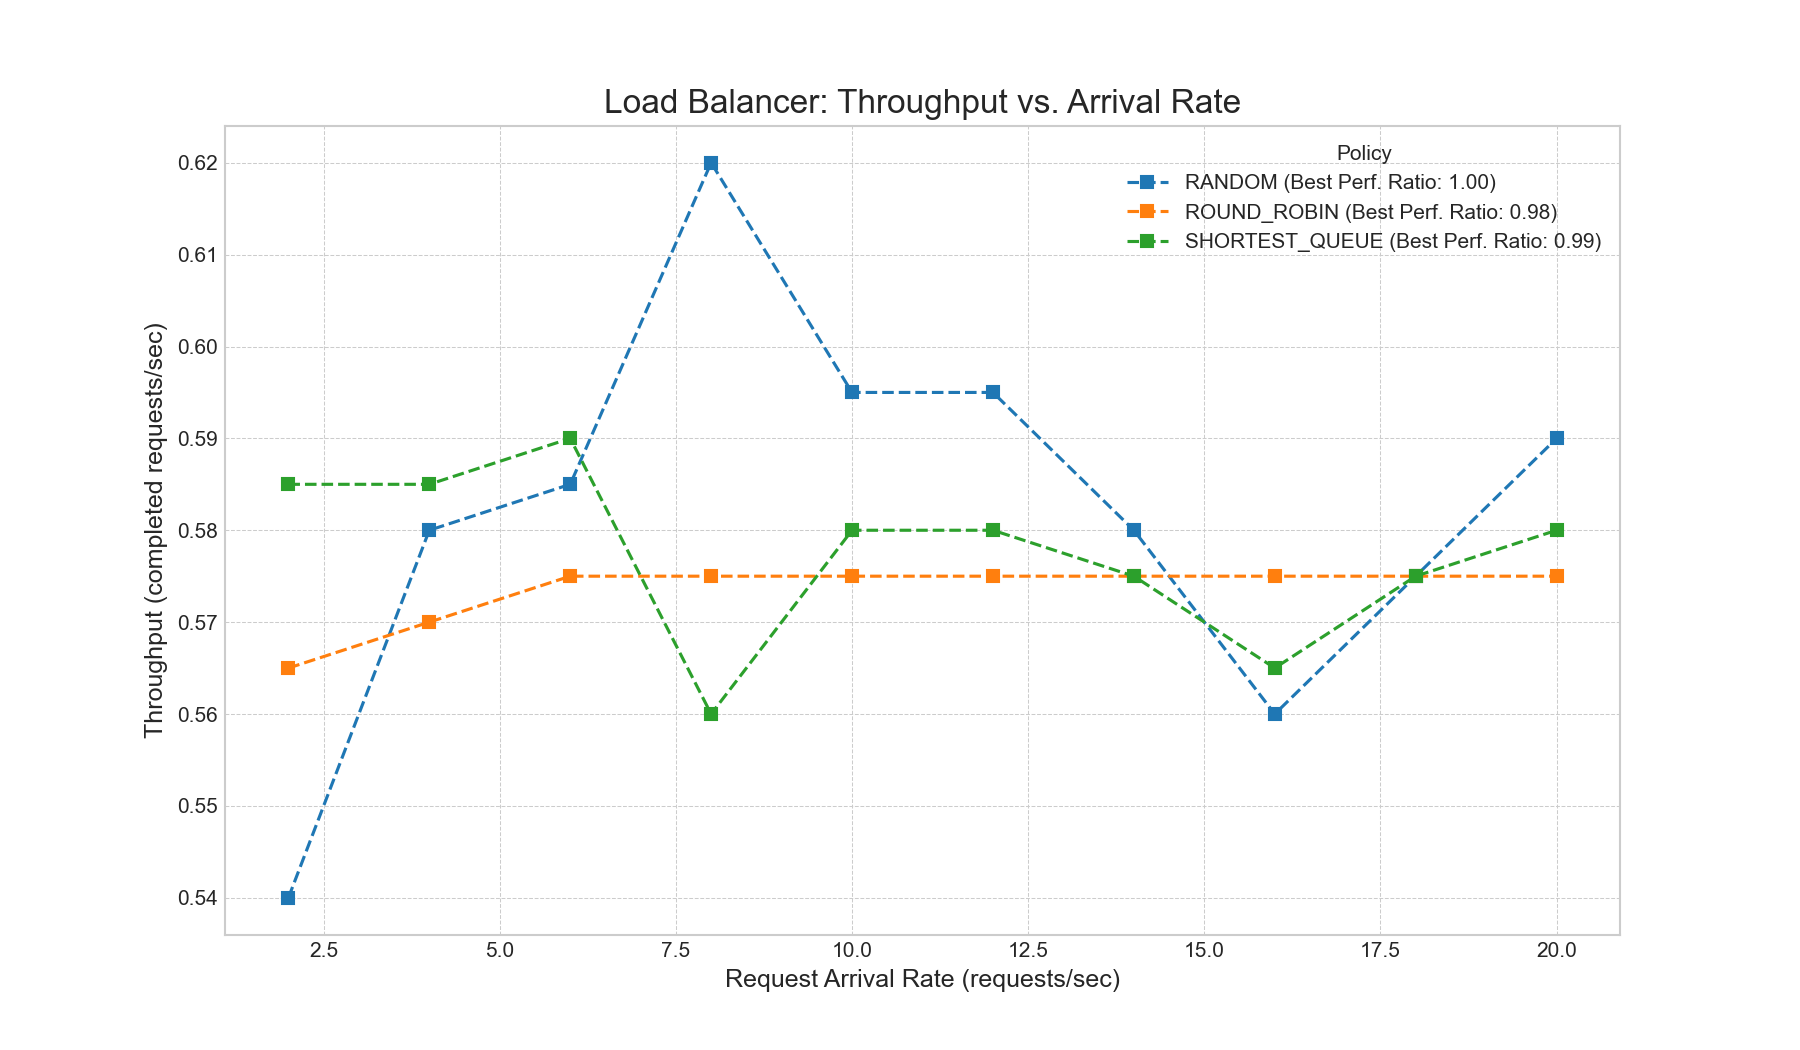
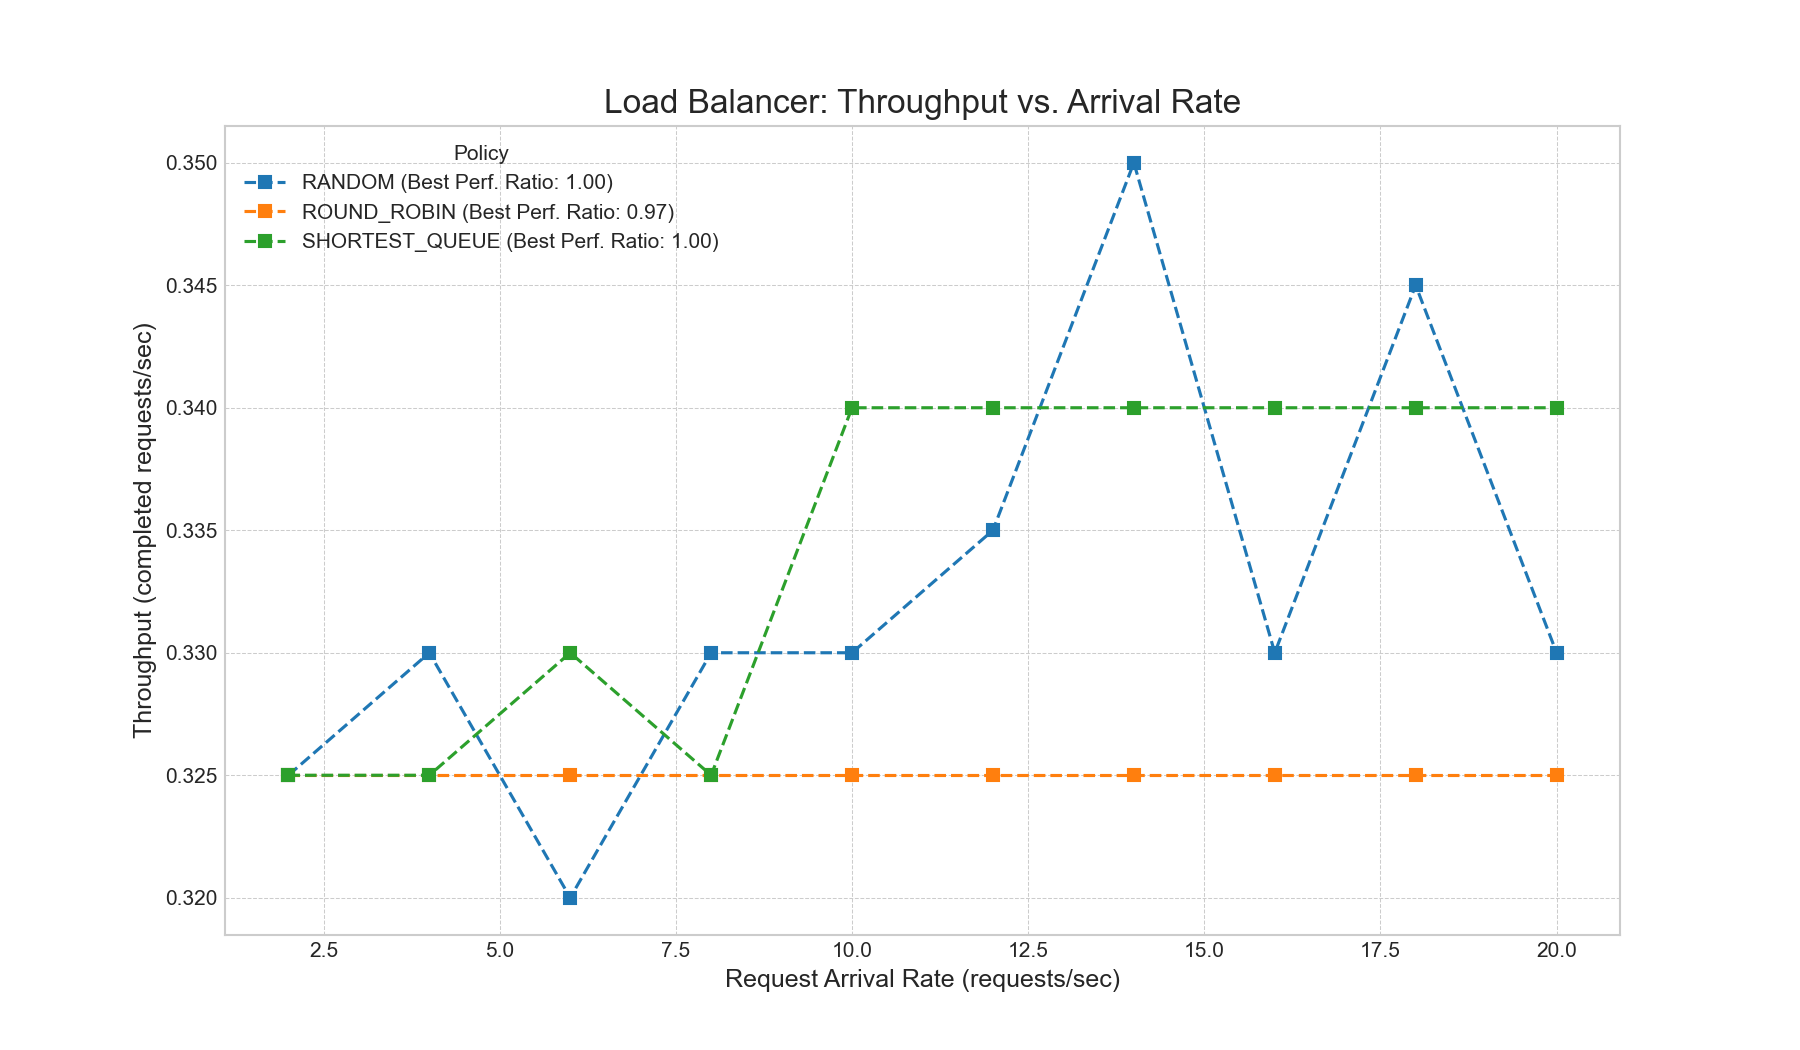
fix para os plots

diff --git a/plot_stats.py b/plot_stats.py
@@ -8,7 +8,7 @@ POLICIES = ['RANDOM', 'ROUND_ROBIN', 'SHORTEST_QUEUE']
 ARRIVAL_RATES = np.arange(2, 22, 2)
 # Increased time for more stable results across different rates
 SIM_TIME_PER_RUN = 200 
-NUM_SERVERS_FOR_PLOT = 10
+NUM_SERVERS_FOR_PLOT = 3
 SIMULATE_BURST_PHASE_FOR_PLOT = True
 OUTPUT_DIR = 'stats'
 

diff --git a/load_balancer_simulation.py b/load_balancer_simulation.py
@@ -10,8 +10,8 @@ SIMULATION_TIME = 100
 SIMULATE_BURST_PHASE = True 
 
 PROCESSING_TIMES = {
-    'CPU_INTENSIVE': (1, 15),
-    'IO_BOUND': (15, 30)
+    'CPU_INTENSIVE': (1, 8),
+    'IO_BOUND': (8, 15)
 }
 
 class Colors:
